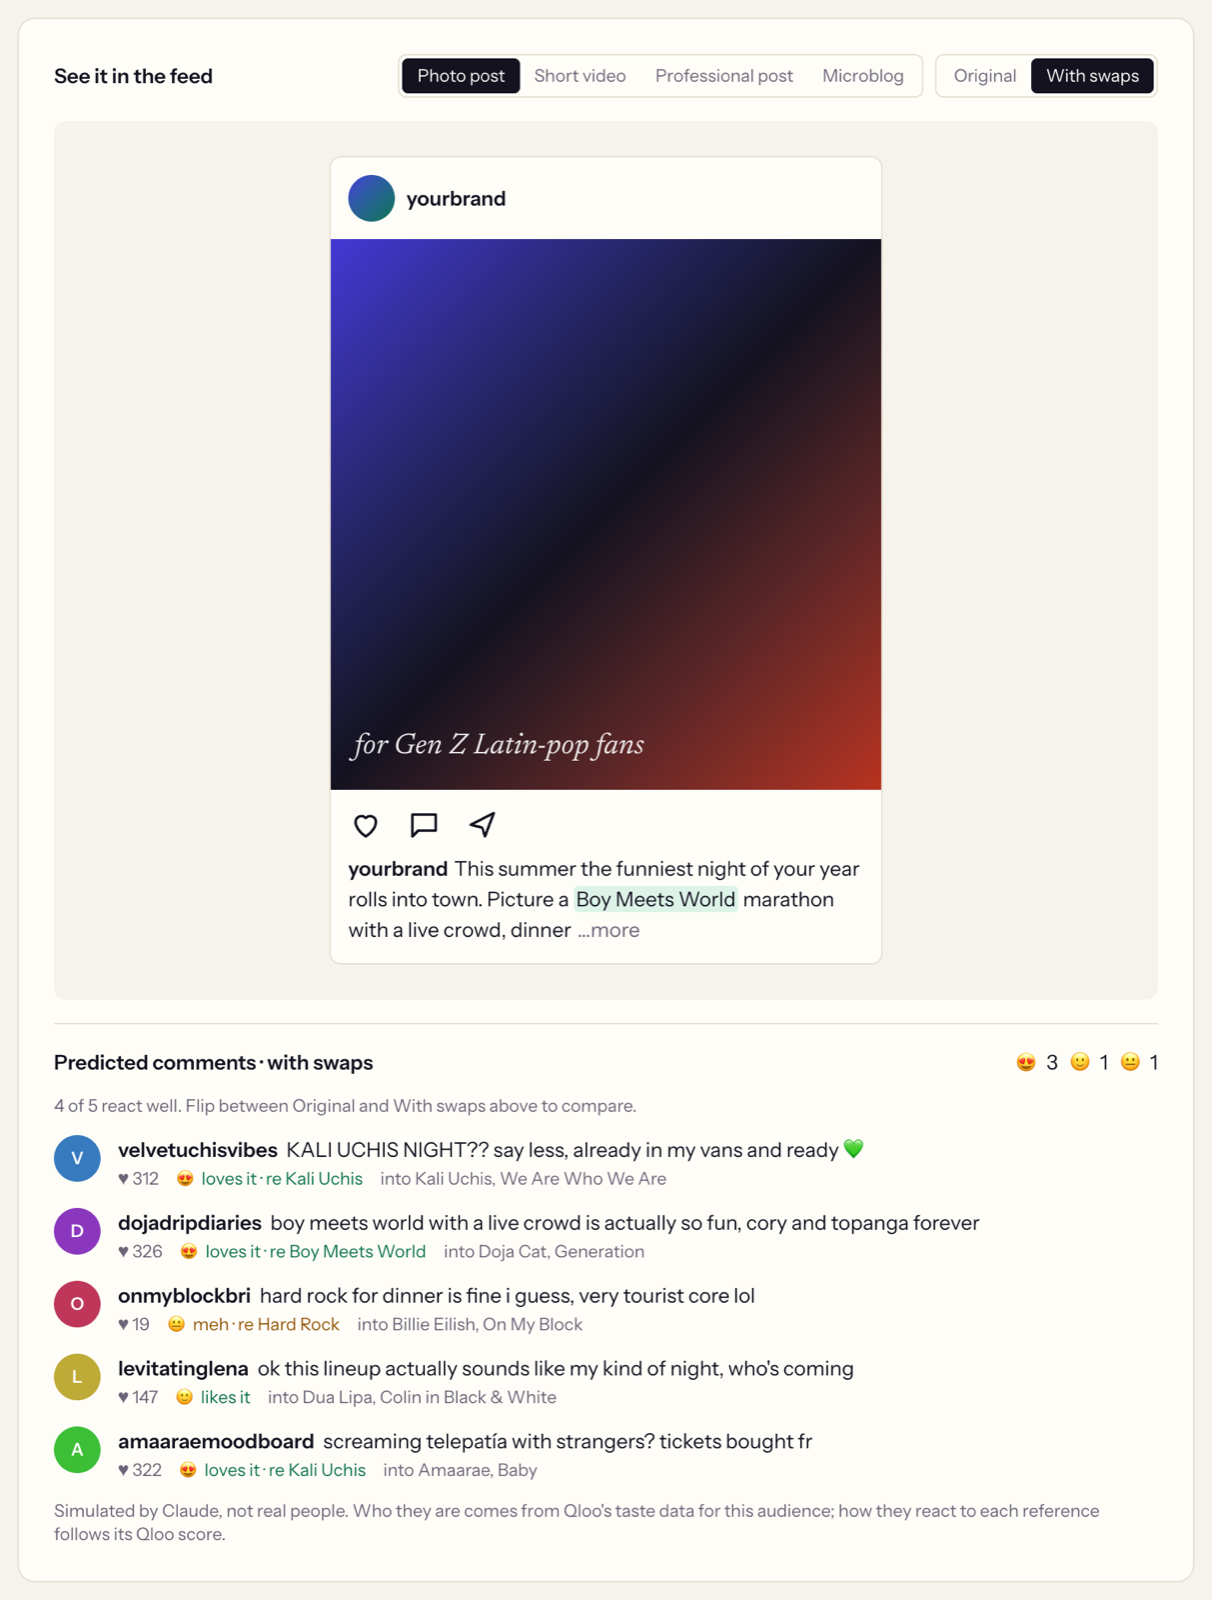
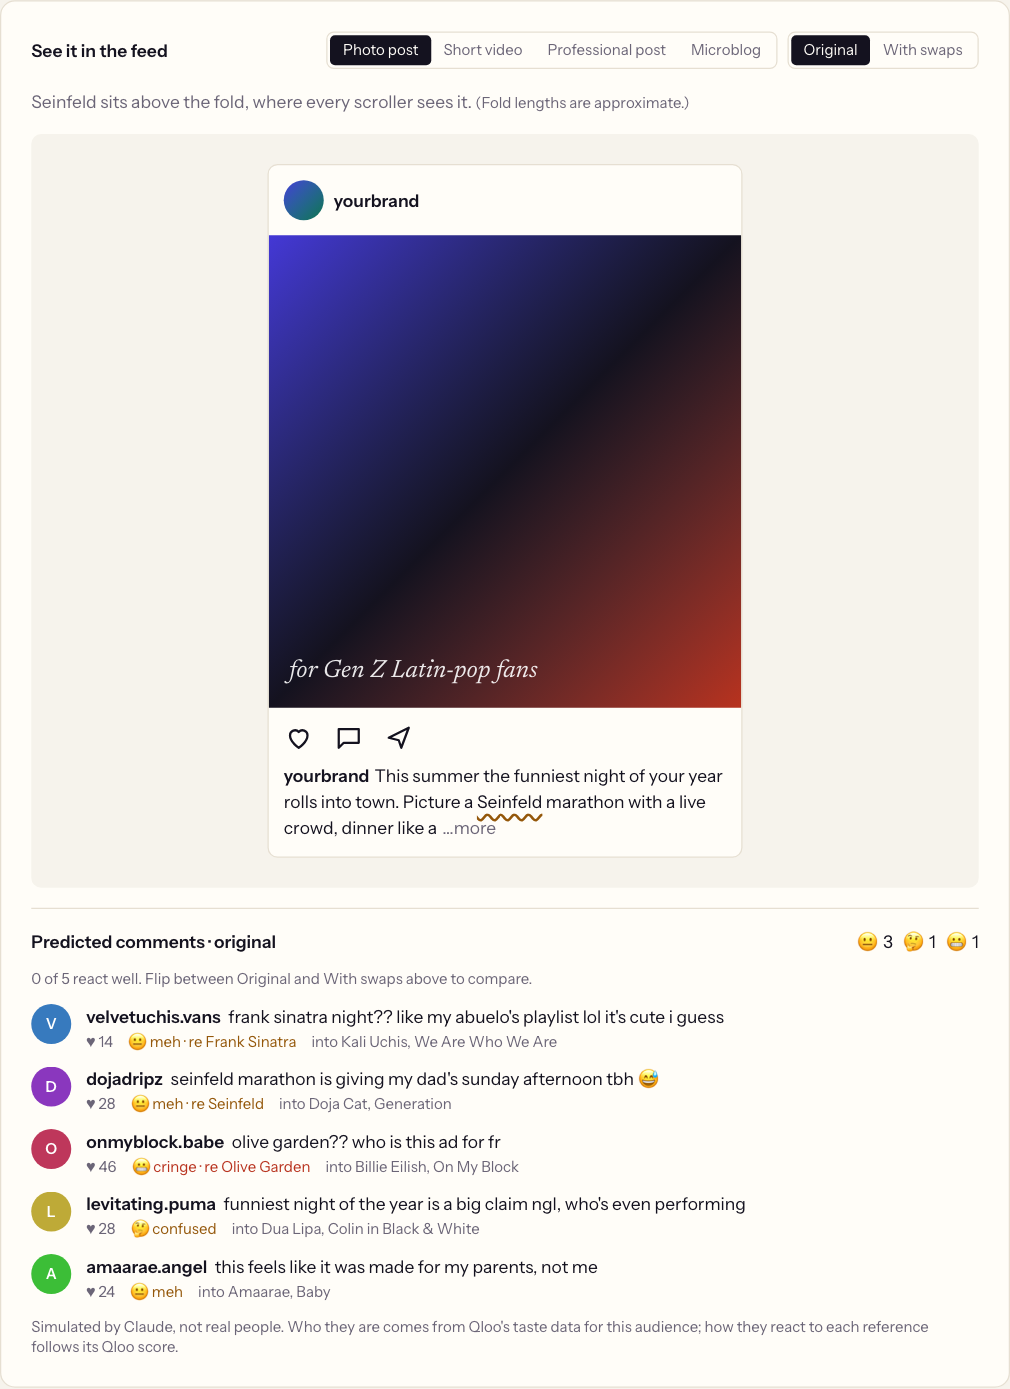
Claims map, fresh screenshots, social images and README accuracy pass

diff --git a/scripts/screenshots.ts b/scripts/screenshots.ts
@@ -30,6 +30,9 @@ async function seenTour(page: Page) {
   await settle(page);
   await page.screenshot({ path: `${OUT}/check.png` });
 
+  // Element shots below shouldn't have the sticky results bar over them.
+  await page.addStyleTag({ content: 'nav[aria-label="Results"] { visibility: hidden !important; }' });
+
   // A reference card with its swap.
   const card = page.locator('aside[aria-label="Audience and references"] article').filter({ has: page.locator('[data-tour="swap"]') }).first();
   await card.scrollIntoViewIfNeeded();
@@ -41,7 +44,8 @@ async function seenTour(page: Page) {
   if (await play.count()) {
     await play.scrollIntoViewIfNeeded();
     await play.click();
-    await page.waitForTimeout(14000);
+    // Original take, then the take with swaps; capture once both curves are drawn.
+    await page.waitForTimeout(34000);
     await page.locator("#sec-dial").screenshot({ path: `${OUT}/dial-test.png` });
   }
 
@@ -64,12 +68,29 @@ async function seenTour(page: Page) {
     await page.locator("#sec-map").screenshot({ path: `${OUT}/map.png` });
   }
 
+  // Culture Translator, live for one reference.
+  await page.goto(base + "/translate", { waitUntil: "networkidle" });
+  await page.getByRole("button", { name: "Seinfeld", exact: true }).click();
+  await page.waitForTimeout(70000);
+  await page.screenshot({ path: `${OUT}/translator.png` });
+
+  // Vernacular Anywhere: the extension's check on a chat box. Its pill lives in a
+  // closed shadow root, so it's clicked by position, where the script places it.
+  await page.goto(base + "/anywhere", { waitUntil: "networkidle" });
+  const chat = page.locator('textarea[placeholder="Message #launch-video"]');
+  await chat.scrollIntoViewIfNeeded();
+  await page.locator('section:has(textarea[placeholder="Message #launch-video"]) button', { hasText: "Use an example" }).click();
+  await page.waitForTimeout(25000);
+  const r = (await chat.boundingBox())!;
+  await page.mouse.click(Math.min(1280 - 90, r.x + r.width - 80), Math.min(847 - 20, r.y + r.height - 1));
+  await page.waitForTimeout(1500);
+  await page.screenshot({ path: `${OUT}/anywhere.png` });
+
   // Other pages.
   for (const [path, name, wait] of [
     ["/campaign", "campaign", 2500],
     ["/benchmark", "benchmark", 1500],
     ["/how", "how", 1500],
-    ["/anywhere", "anywhere", 1500],
   ] as const) {
     await page.goto(base + path, { waitUntil: "networkidle" });
     await settle(page, wait);

diff --git a/docs/CLAIMS.md b/docs/CLAIMS.md
@@ -1,0 +1,68 @@
+# Claims map
+
+Every factual claim in the README, the Devpost description and the site, with the code, data or saved output that backs it. Line numbers are for the commit this file was last updated in; numbers on the site are computed from the data files at render time.
+
+## Scoring
+
+| Claim | Where it's true |
+|---|---|
+| Each reference is ranked against ~40 well-known peers of the same type, scored for the same audience in the same request | [`tools.ts:297`](../src/lib/qloo/tools.ts#L297) (panel: `take=40`, `filter.popularity.min=0.85`), `scoreAgainst` and `scoreWithPanel` below it |
+| Score = share of the panel at or below the reference's affinity | [`tools.ts:146`](../src/lib/qloo/tools.ts#L146) `percentileOf` |
+| Lands is p65 or above, misses below p35 | [`score.ts:15`](../src/lib/vernacular/score.ts#L15) |
+| A verdict drops a step when Qloo's demographics show the audience under-indexes (−0.2 or lower) | [`score.ts:72`](../src/lib/vernacular/score.ts#L72) |
+| Raw affinity isn't comparable across audiences | [FINDINGS.md](FINDINGS.md), day 1 data test (fixed thresholds, failed) |
+| Within-audience ranking passed a confirmatory test (88% pairwise) | [FINDINGS.md](FINDINGS.md#confirmatory-test), [`scripts/confirm-test.ts`](../scripts/confirm-test.ts) |
+| A made-up name never borrows a real entity's score | [`names.ts:69`](../src/lib/qloo/names.ts#L69) `plausibleMatch`; edge case `fictional` in [evidence](evidence/edge-cases.txt) |
+
+## Qloo usage
+
+| Claim | Where it's true |
+|---|---|
+| Parameters are whitelisted (Qloo ignores unknown ones) | [`params.ts:51`](../src/lib/qloo/params.ts#L51); tests in [`params.test.ts`](../src/lib/qloo/__tests__/params.test.ts) |
+| `signal.demographics.gender` is sent when an audience has a gender skew | [`tools.ts`](../src/lib/qloo/tools.ts) `audienceSignals`; set in the UI at [`audience-builder.tsx:251`](../src/components/audience-builder.tsx#L251), by plain-language audiences in [`audience.ts`](../src/lib/vernacular/audience.ts), and by MCP clients |
+| `signal.location.query` applies to places, brands and destinations | [`tools.ts:93`](../src/lib/qloo/tools.ts#L93) |
+| `urn:demographics` for age skew | [`tools.ts:160`](../src/lib/qloo/tools.ts#L160) |
+| `feature.explainability`, genre tags, exclusions and a popularity floor for candidates | [`tools.ts:233`](../src/lib/qloo/tools.ts#L233) `findEquivalents` |
+| `urn:heatmap` with `output.heatmap.boundary=urn:entity:locality` | [`tools.ts:399`](../src/lib/qloo/tools.ts#L399) |
+| `/v2/tags` and `/v2/audiences` turn a plain-language audience into Qloo signals | [`tools.ts:366`](../src/lib/qloo/tools.ts#L366), [`audience.ts:39`](../src/lib/vernacular/audience.ts#L39) |
+| Client: 1-hour cache, at most 3 requests in flight spaced 220 ms, retries honour `Retry-After` | [`client.ts:64`](../src/lib/qloo/client.ts#L64), [`:65`](../src/lib/qloo/client.ts#L65), [`:153`](../src/lib/qloo/client.ts#L153), [`:215`](../src/lib/qloo/client.ts#L215) |
+| The landing sample's trace (27 Qloo calls, 7 Claude calls, 43 s) | `sample.result.stats` and the call list in [`snapshots/data.json`](../src/lib/vernacular/snapshots/data.json) |
+
+## The swap agent
+
+| Claim | Where it's true |
+|---|---|
+| A swap must come from Qloo in this run | [`agent.ts:172`](../src/lib/vernacular/agent.ts#L172) |
+| It must land, or be mixed and at least 15 points above the original | [`agent.ts:220`](../src/lib/vernacular/agent.ts#L220) |
+| It must be at least as well-known as the panel (popularity 0.85) unless nothing fits | [`tools.ts:219`](../src/lib/qloo/tools.ts#L219) `SWAP_POPULARITY_FLOOR`, used by `findEquivalents`; the agent's `popularity_floor` option |
+| The rewrite must name it, drop the original and leave no stray article | [`agent.ts:226`](../src/lib/vernacular/agent.ts#L226), [`agent.ts:62`](../src/lib/vernacular/agent.ts#L62) `articleClash` |
+| Each run is capped at 16 model turns and 40 Qloo calls | [`agent.ts:25`](../src/lib/vernacular/agent.ts#L25) |
+| Factual references (credits, venues) are kept | The agent's instructions in [`agent.ts:45`](../src/lib/vernacular/agent.ts#L45); edge case `factual` in [evidence](evidence/edge-cases.txt) |
+| Each swap shows the Qloo tags it shares with the original | [`tools.ts:192`](../src/lib/qloo/tools.ts#L192) `sharedTags`; rendered in [`reference-card.tsx`](../src/components/reference-card.tsx) |
+| The extension's suggestions must share Qloo tags with the original | [`lint.ts:41`](../src/lib/vernacular/lint.ts#L41); tests in [`role.test.ts`](../src/lib/qloo/__tests__/role.test.ts) |
+| One agent per sentence, in parallel | [`run.ts`](../src/lib/vernacular/run.ts) (`groups.map(runSwapAgent)`) |
+| An abandoned check stops spending | [`sse.ts:36`](../src/lib/sse.ts#L36), [`agent.ts:310`](../src/lib/vernacular/agent.ts#L310) |
+
+## Product
+
+| Claim | Where it's true |
+|---|---|
+| Twelve real-world scenarios, saved so they open instantly | [`scenarios.ts:24`](../src/lib/vernacular/scenarios.ts#L24); saved runs in [`snapshots/data.json`](../src/lib/vernacular/snapshots/data.json), served by [`api/scenario/[id]/route.ts`](../src/app/api/scenario/[id]/route.ts) |
+| Campaign check: up to 5 variants × 5 audiences | [`campaign.ts:12`](../src/lib/vernacular/campaign.ts#L12), [`schema.ts`](../src/lib/vernacular/schema.ts) `CampaignInputSchema` |
+| Six MCP tools | [`mcp/route.ts`](../src/app/api/mcp/route.ts): `check_copy` (line 72), `build_audience`, `compare_audiences`, `check_campaign` (line 143), `where_it_lands`, `translate_reference` |
+| Models: `claude-opus-5-5`, `gpt-4o-mini-tts`, `whisper-1`; `gpt-5.5` for the recognition judge | [`llm.ts:5`](../src/lib/vernacular/llm.ts#L5), [`voice.ts:11`](../src/lib/vernacular/voice.ts#L11), [`voice.ts:58`](../src/lib/vernacular/voice.ts#L58), [`recognition.ts:9`](../src/lib/vernacular/benchmark/recognition.ts#L9) |
+| Twelve full checks per IP per ten minutes, queued up to 20 s when busy | [`rate-limit.ts:4`](../src/lib/rate-limit.ts#L4), [`:45`](../src/lib/rate-limit.ts#L45) |
+| Map example: Kali Uchis reaches 8 of Gen Z Latin-pop fans' 10 strongest Chicago neighbourhoods, Seinfeld none; Olive Garden 9 of 10 in Los Angeles | Live Qloo heatmaps through `buildCityMap` ([`map.ts`](../src/lib/vernacular/map.ts)); visible in [`docs/screenshots/map.png`](screenshots/map.png); re-run on the map panel |
+| Wrigley Field lands at p100 and Soldier Field misses at p0 for 30–34 hip-hop fans in Chicago | The saved `billboard` scenario in [`snapshots/data.json`](../src/lib/vernacular/snapshots/data.json) |
+
+## Evidence
+
+| Claim | Where it's true |
+|---|---|
+| Benchmark: p51 / p73 / p85, misses 49% / 25% / 8%, 24 of 40 wins, +11.9 (5.6 to 17.9), +27.0 without echoes | [`results.json`](../src/lib/vernacular/benchmark/results.json), computed by [`summarize.ts`](../src/lib/vernacular/benchmark/summarize.ts) (the page renders the same function) |
+| Outside recognition check: 3.11 / 4.13 / 3.69; level with echoes left out (+0.03, −0.19 to +0.26) | `recognition` per reference in [`results.json`](../src/lib/vernacular/benchmark/results.json); method in [`recognition.ts`](../src/lib/vernacular/benchmark/recognition.ts) |
+| The Oct 20 agent scored p88 and 3.56 recognition | [FINDINGS.md](FINDINGS.md#outside-recognition-check-oct-29); the Oct 20 results are in git history (`git show dff9ea8:src/lib/vernacular/benchmark/results.json > old.json`) and re-rate with `npm run benchmark:recognition -- old.json` |
+| 16 adversarial edge cases pass | [`scripts/edge-cases.ts`](../scripts/edge-cases.ts); output in [`evidence/edge-cases.txt`](evidence/edge-cases.txt) |
+| 75 unit tests in 13 files | `npm test`; CI in [`.github/workflows/ci.yml`](../.github/workflows/ci.yml) |
+| No axe-core violations on the seven main pages; each fits 375 px | [`scripts/a11y.ts`](../scripts/a11y.ts); output in [`evidence/a11y.txt`](evidence/a11y.txt); runs in CI |
+| Five simultaneous fresh checks complete: first scores 8–10 s, all within 36 s | [`scripts/load-test.ts`](../scripts/load-test.ts); output in [`evidence/load-test.txt`](evidence/load-test.txt) |

diff --git a/README.md b/README.md
@@ -64,7 +64,7 @@ Every Qloo request behind a result is listed under **"Qloo calls back what you s
 
 ## Qloo, used unusually
 
-Eight things Vernacular does with Qloo that a recommendations call alone wouldn't give you. Every screenshot is from the running app.
+Nine things Vernacular does with Qloo that a recommendations call alone wouldn't give you. Every screenshot is from the running app.
 
 <table>
 <tr>
@@ -72,10 +72,10 @@ Eight things Vernacular does with Qloo that a recommendations call alone wouldn'
 
 **1. A dictionary for a spell-checker.** Raw affinity isn't comparable across audiences, so each reference is ranked against ~40 well-known peers scored for the same audience in the same request. That turns affinity into a verdict a writer can act on (lands, mixed, misses), adjusted by Qloo's demographic age skew.
 
-**2. Evidence for every swap.** Each swap shows the Qloo tags it shares with the original (*Sitcom*, *Comedy*, *Friendship*), so "plays the same role" is something you can check, not take on trust. Qloo's `feature.explainability` is drawn as a taste path when the audience's anchors pulled the swap in unequally.
+**2. Evidence for every swap.** Each swap shows the Qloo tags it shares with the original (*Comedy*, *Dating*, *Friendship* for Seinfeld → *Never Have I Ever*), so "plays the same role" is something you can check, not take on trust. Qloo's `feature.explainability` is drawn as a taste path when the audience's anchors pulled the swap in unequally.
 
 </td>
-<td width="50%"><img src="docs/screenshots/reference-card.png" alt="A reference card: Seinfeld scores p40 for Gen Z Latin-pop fans, with age-skew bars, a swap for Boy Meets World at p98, and a taste path from Bad Bunny and Euphoria" /></td>
+<td width="50%"><img src="docs/screenshots/reference-card.png" alt="A reference card: Seinfeld scores p40 for Gen Z Latin-pop fans, with age-skew bars and a verified swap for Never Have I Ever at p100; Qloo tags both Comedy, Dating, Friendship and Humorous" /></td>
 </tr>
 <tr>
 <td valign="top">
@@ -83,7 +83,7 @@ Eight things Vernacular does with Qloo that a recommendations call alone wouldn'
 **3. Taste on a timeline.** In the Dial Test, Qloo percentiles are placed on the exact words where each reference is spoken, so you hear and watch Olive Garden sink and Kali Uchis land.
 
 </td>
-<td><img src="docs/screenshots/dial-test.png" alt="Dial Test: the original copy's curve dips at Seinfeld and Olive Garden; the swapped version spikes at Boy Meets World and Kali Uchis" /></td>
+<td><img src="docs/screenshots/dial-test.png" alt="Dial Test: the original copy's curve dips at Seinfeld and Olive Garden; the swapped version spikes at Never Have I Ever and Kali Uchis" /></td>
 </tr>
 <tr>
 <td valign="top">
@@ -104,7 +104,7 @@ Eight things Vernacular does with Qloo that a recommendations call alone wouldn'
 <tr>
 <td valign="top">
 
-**6. A dictionary between audiences.** The Culture Translator scores one reference for five audiences and, where it misses, finds the Qloo-verified equivalent that plays the same role: Seinfeld becomes *On My Block* for Gen Z Latin-pop fans and *Insecure* for 30–34 hip-hop heads.
+**6. A dictionary between audiences.** The Culture Translator scores one reference for five audiences and, where it misses, finds the Qloo-verified equivalent that plays the same role: in the run shown, Seinfeld becomes *Sex Education* for Gen Z Latin-pop fans and *Insecure* for 30–34 hip-hop heads, and already lands with 55+ classic-rock fans.
 
 </td>
 <td><img src="docs/screenshots/translator.png" alt="Culture Translator compass for Seinfeld across five audiences" /></td>
@@ -112,12 +112,20 @@ Eight things Vernacular does with Qloo that a recommendations call alone wouldn'
 <tr>
 <td valign="top">
 
-**7. Qloo as the referee.** The benchmark uses Qloo to grade Claude alone against Vernacular on the same copy and briefs, and shows what a model does without taste data: it repeats the audience's own examples back.
-
-**8. Taste in every text box and every agent.** The same Qloo-backed check runs in a browser extension on any page, and as MCP tools any AI agent can call before it publishes.
+**7. One grid for a whole campaign.** Campaign check scores every version of an ad for every audience in a single pass per audience, so an agency sees which version runs where: in the example, the classic-rock route wins with 55+ fans, the Latin-pop route with Gen Z, and the indie route doesn't even win with indie fans.
 
 </td>
-<td><img src="docs/screenshots/benchmark.png" alt="Benchmark page: original p51, Claude alone p73, Vernacular p88" /><br /><img src="docs/screenshots/anywhere.png" alt="The extension's panel on a chat box: Wes Anderson misses, Coldplay mixed, try Kali Uchis" /></td>
+<td><img src="docs/screenshots/campaign.png" alt="Campaign check: four cold-brew versions by five audiences, each cell a Qloo percentile, with the best version per audience starred" /></td>
+</tr>
+<tr>
+<td valign="top">
+
+**8. Qloo as the referee, checked from outside.** The benchmark uses Qloo to grade Claude alone against Vernacular on the same copy and briefs, and shows what a model does without taste data: it repeats the audience's own examples back. Because Qloo grades its own suggestions there, a non-Claude model also rates recognition blind, and that check changed how swaps are picked.
+
+**9. Taste in every text box and every agent.** The same Qloo-backed check runs in a browser extension on any page, and as MCP tools any AI agent can call before it publishes.
+
+</td>
+<td><img src="docs/screenshots/benchmark.png" alt="Benchmark page: original p51, Claude alone p73, Vernacular p85" /><br /><img src="docs/screenshots/anywhere.png" alt="The extension's panel on a chat box: Wes Anderson misses, Coldplay mixed, try SZA, with the Qloo tags they share" /></td>
 </tr>
 </table>
 
@@ -551,7 +559,7 @@ The author directed the work, made the product decisions, reviewed the results, 
 - **Anthropic Claude** (`claude-opus-5-5`) reads copy and frames, runs the swap agent, picks translations, writes the simulated comments, and is the benchmark's blind fidelity judge.
 - **OpenAI** `gpt-4o-mini-tts` reads copy aloud in the Dial Test, and `whisper-1` transcribes voiceovers. Both are labelled in the interface.
 - **OpenAI** `gpt-5.5` is the benchmark's outside recognition judge (not part of the product).
-- **The sample animatic's voiceover** is AI-generated (OpenAI text-to-speech). Its storyboard panels were drawn as SVG in code.
+- **The sample animatic's voiceover, and the demo video's narration,** are AI-generated (OpenAI text-to-speech). Its storyboard panels were drawn as SVG in code.
 - **Predicted comments** are simulated by Claude and labelled as such. They are not real people.
 
 What is not generated by a model: every audience score, verdict and percentile comes from Qloo's Taste AI API, and every swap is verified against Qloo before it is suggested.
